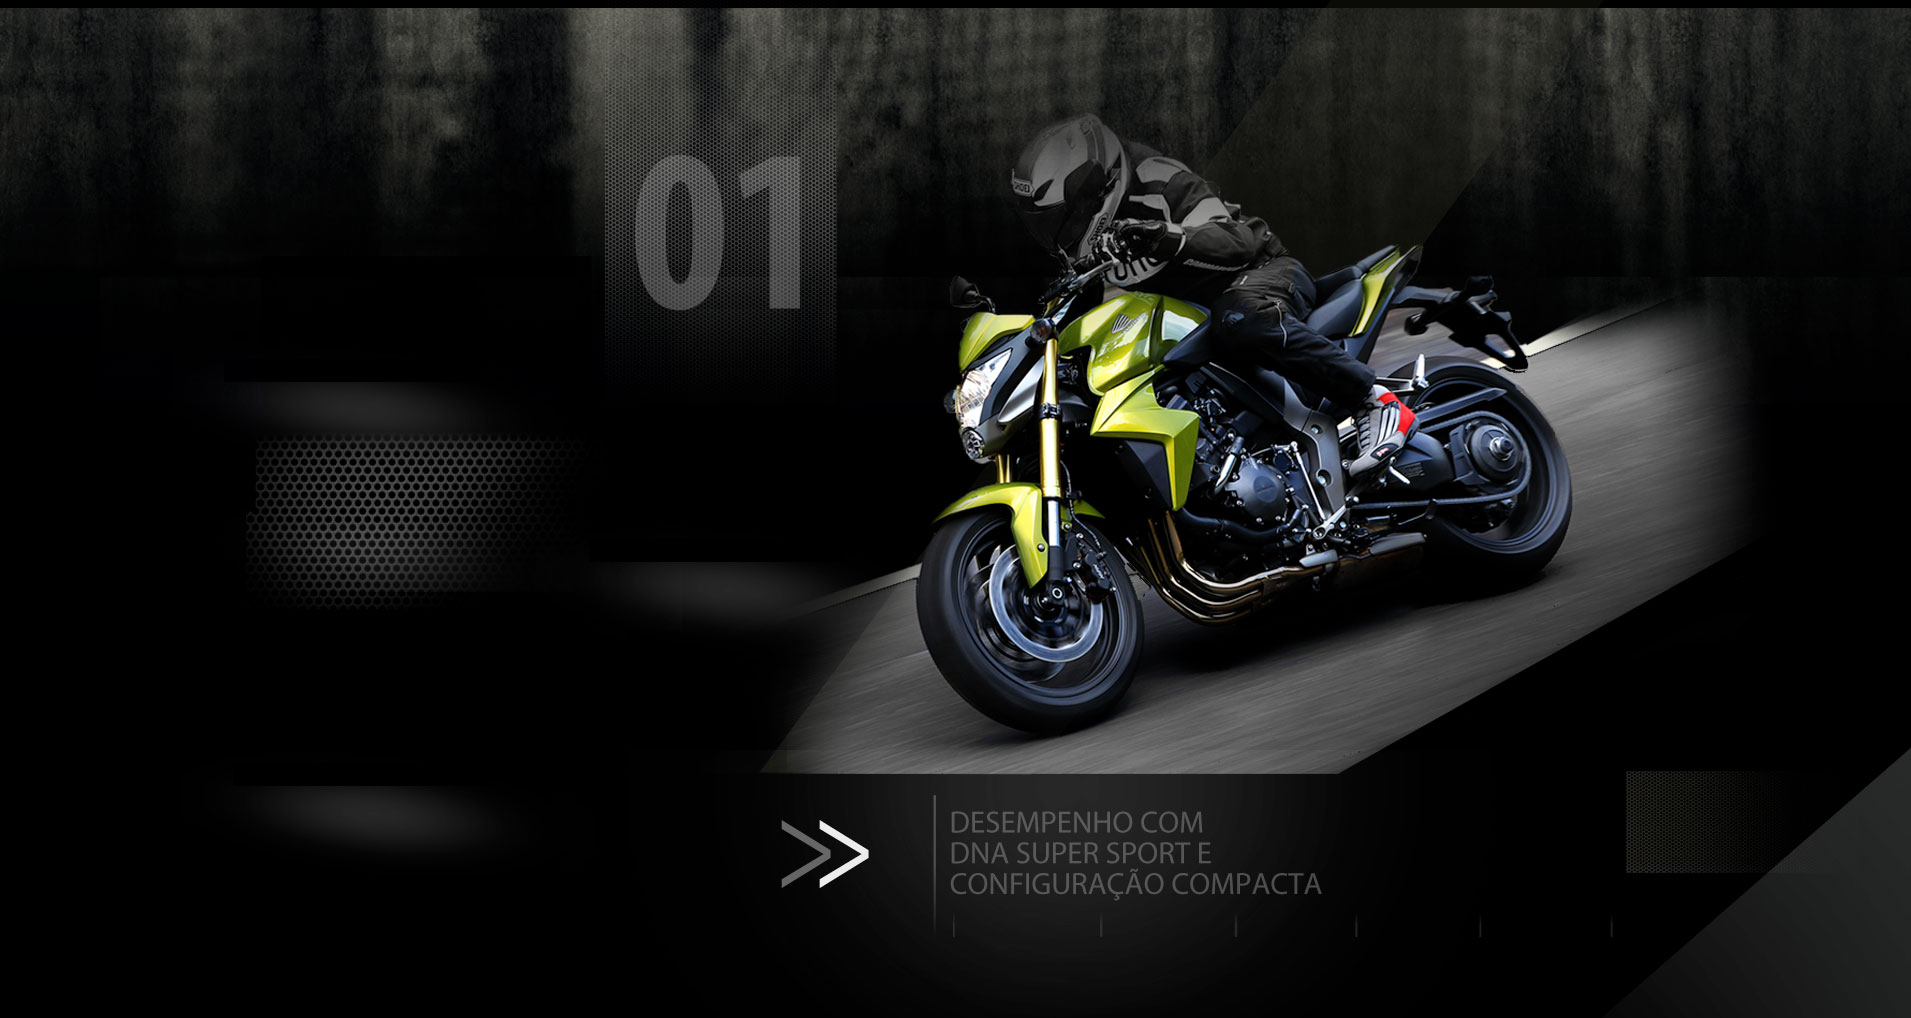
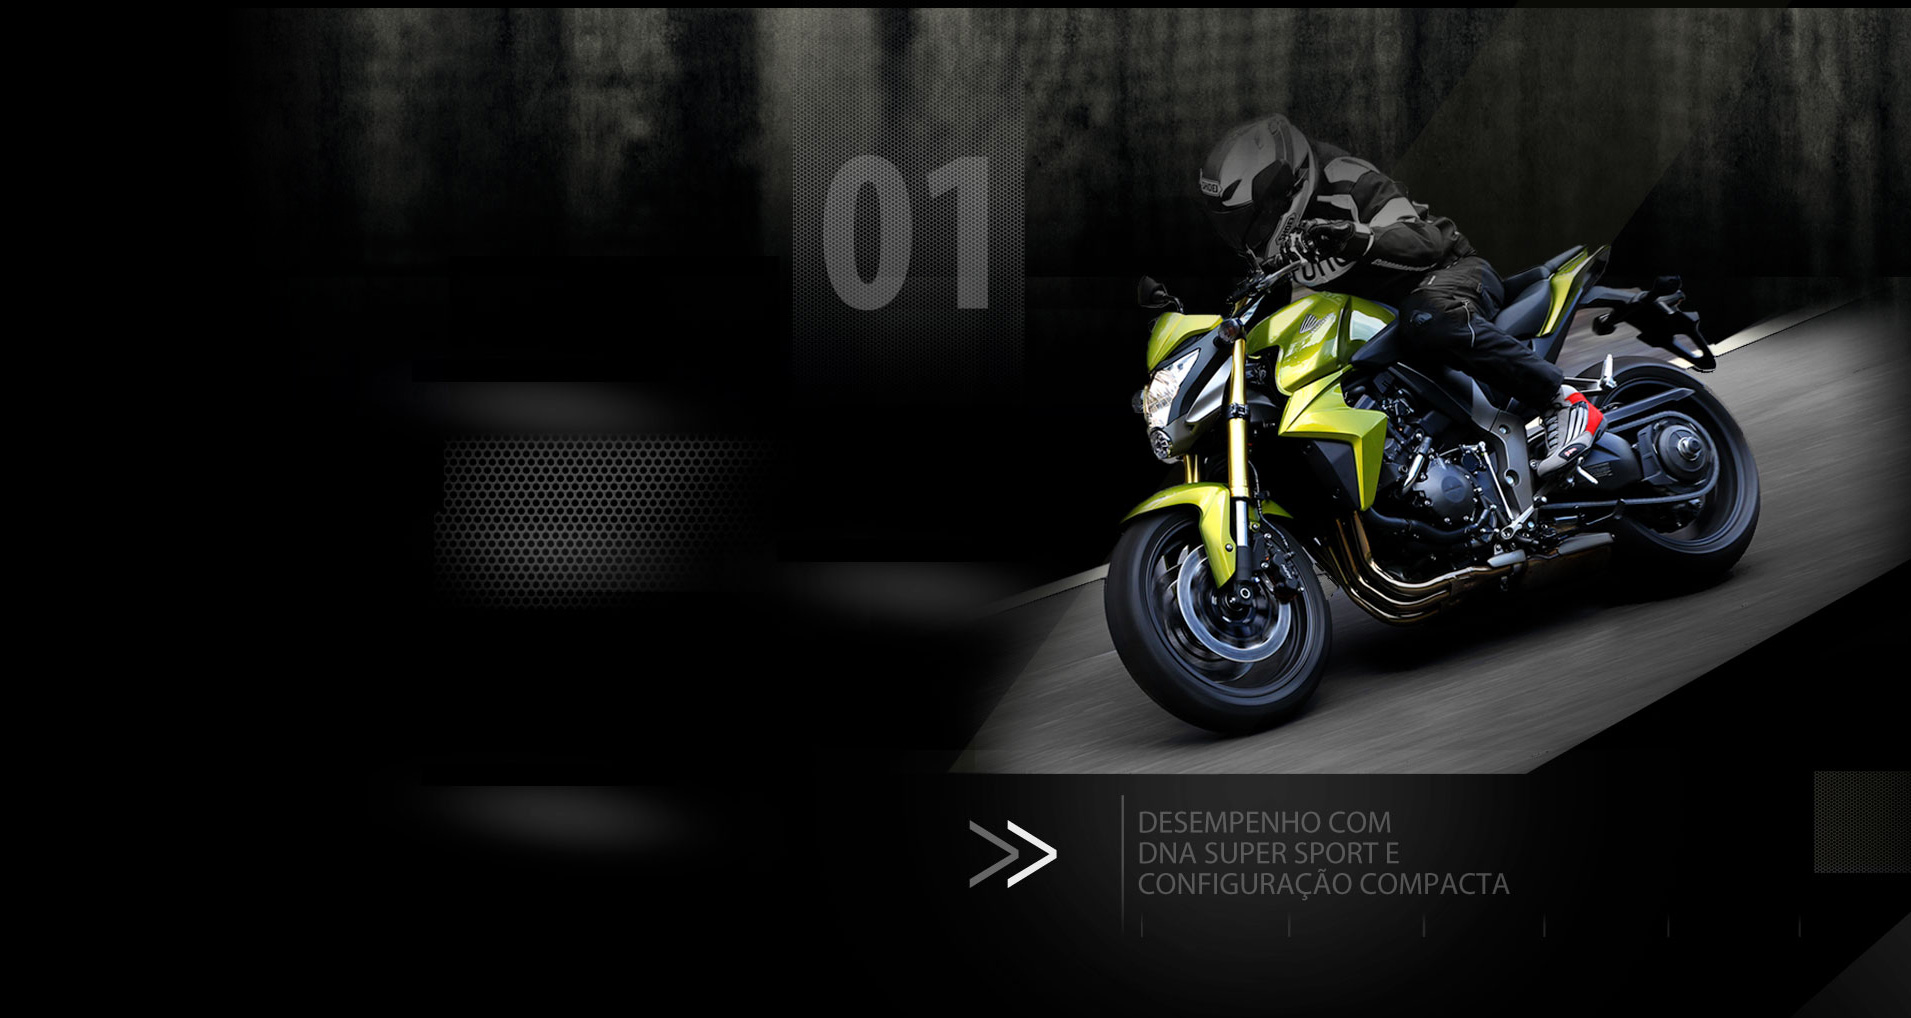
deixando tudo em 1024

diff --git a/css/screen.css b/css/screen.css
@@ -27,7 +27,7 @@
 #conceito .container_videos .video3 p { margin:25px 25px; }
 
 #cores { background:url(../img/cores_bg.jpg) no-repeat center -200px;; height:1040px !important; }
-#cores .texto { width:190px; font-family:'Myriad Pro', Arial; top:410px;  }
+#cores .texto { width:190px; font-family:'Myriad Pro', Arial; top:310px;  }
 #cores .texto h2 { font-size:48px; text-transform:uppercase; color:#38435e; }
 #cores .texto p { font-size:12px; color:#cccccc; margin-bottom:8px; margin-left:5px; }
 #cores .texto p.subtitulo { text-transform:uppercase; }
@@ -45,11 +45,11 @@
 #galeria .imagens ul.container { width:980px; }
 #galeria .imagens ul.container li { width:980px; }
 #galeria .imagens ul.container li.linha1 { top:0; left:0; }
-#galeria .imagens ul.container li.linha2 { top:160px; left:160px;; }
-#galeria .imagens ul.container li.linha3 { top:320px; left:320px;; }
+#galeria .imagens ul.container li.linha2 { top:145px; left:144px;; }
+#galeria .imagens ul.container li.linha3 { top:290px; left:287px;; }
 #galeria .imagens ul.container li ul { width:980px; }
-#galeria .imagens ul.container li ul li{ width:320px; float:left; }
-#galeria .imagens ul.container li ul li a { width:296px; height:296px; background-position:left top; background-repeat:no-repeat; }
+#galeria .imagens ul.container li ul li{ width:290px; float:left; }
+#galeria .imagens ul.container li ul li a { width:270px; height:270px; background-position:left top; background-repeat:no-repeat; }
 #galeria .imagens ul.container li ul li a:hover,
 #galeria .imagens ul.container li ul li a.hover { background-position:left bottom; }
 #galeria .imagens ul.container li ul li a.foto1 { background-image:url(../img/galeria/galeria_thumb1.png); }
@@ -98,13 +98,13 @@
 .proprietarios .fechar { top:50px; right:50px; background:url(../img/bt_fechar.png) no-repeat center center transparent; width:62px; height:65px; }
 .proprietarios .nome_moto { bottom:0; }
 
-.mulheres { background:url(../img/mulheres_bg.jpg) no-repeat center top #000000; height:1000px; }
+.mulheres { background:url(../img/mulheres_bg.jpg) no-repeat center top #000000; height:800px; }
 .mulheres .bt_opniao { top:410px; width:185px; height:40px; background:url(../img/mulheres_bt_opniao.png) no-repeat left top transparent; }
 .mulheres .bt_opniao a { display:block; width:125px; height:40px; padding-left:60px; color:#ffffff; }
 .mulheres .bt_opniao.bt1 { left:50px; }
 .mulheres .bt_opniao.bt2 { left:300px; }
 .mulheres .bt_opniao.bt3 { left:500px; }
-.mulheres .opniao { width:500px; padding:10px 40px; background:#ffffff; top:520px; }
+.mulheres .opniao { width:500px; padding:10px 40px; background:#ffffff; top:480px; }
 .mulheres .opniao .nome { color:#000000; font-size:26px; margin-bottom:30px; }
 .mulheres .opniao iframe { float:left; margin:6px 0 0 15px; }
 .mulheres .opniao p { float:left; width:100%; color:#666666; margin-bottom:20px; }
@@ -112,4 +112,4 @@
 .mulheres .opniao .fechar { top:0; right:-36px; background:url(../img/mulheres_fechar_opniao.jpg) no-repeat top left; }
 .mulheres .opniao .bt_video { bottom:30px; right:0px; width:200px; background:url(../img/mulheres_ico_seta.jpg) no-repeat top left; text-transform:uppercase; padding-left:20px; color:#000000; }
 .mulheres .fechar { top:90px; right:50px; background:url(../img/bt_fechar.png) no-repeat center center transparent; width:62px; height:65px; }
-.mulheres .nome_moto { bottom:0; }
+.mulheres .nome_moto { left:0; bottom:0; }

diff --git a/js/main.js b/js/main.js
@@ -250,14 +250,14 @@ var Site = {
 			
 			//CONCEITO --------------------------------------------------
 			var containerVideosConceito = $('#conceito .container_videos');
-			containerVideosConceito.css({ 'margin-left': pos - 420});
+			containerVideosConceito.css({ 'margin-left': pos - 200});
 			
 			//CORES --------------------------------------------------
 			var motoCores = $('#cores .moto');
 			motoCores.css({ 'left': pos - 230});
 			
 			var textoCores = $('#cores .texto');
-			textoCores.css({ 'left': pos + 790});
+			textoCores.css({ 'left': pos + 620});
 			
 			var controlesCores = $('#cores .controles');
 			controlesCores.css({ 'left': pos - 230});
@@ -274,7 +274,7 @@ var Site = {
 			textoDownloads.css({ 'left': pos + 150});
 			
 			var conteudoDownloads = $('#downloads .container');
-			conteudoDownloads.css({ 'left': pos - 100});
+			conteudoDownloads.css({ 'left': pos - 130});
 			
 			//ESPECS --------------------------------------------------
 			var textoEspecs = $('#especificacoes .texto');
@@ -285,10 +285,10 @@ var Site = {
 			
 			//COMO COMPRAR --------------------------------------------------
 			var textoCC = $('#como_comprar .texto');
-			textoCC.css({ 'left': pos + 700});
+			textoCC.css({ 'left': pos + 600});
 			
-			var conteudoEspecs = $('#como_comprar .container');
-			conteudoEspecs.css({ 'left': pos + 460 });
+			var conteudoCC = $('#como_comprar .container');
+			conteudoCC.css({ 'left': pos + 380 });
 			
 			//PROPRIETARIOS --------------------------------------------------
 			pos = wind.width() / 2 ;
@@ -303,7 +303,7 @@ var Site = {
 			
 			$('.mulheres #opniao1').css({ 'left': pos - 470 });
 			$('.mulheres #opniao2').css({ 'left': pos - 250 });
-			$('.mulheres #opniao3').css({ 'left': pos - 70 });
+			$('.mulheres #opniao3').css({ 'left': pos - 100 });
 		}
 		
 		$(window).resize( doResize );
